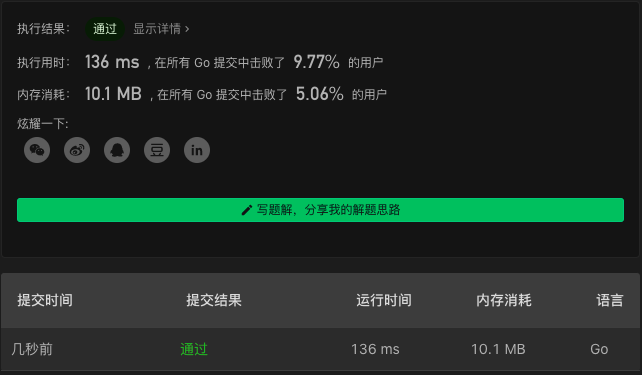
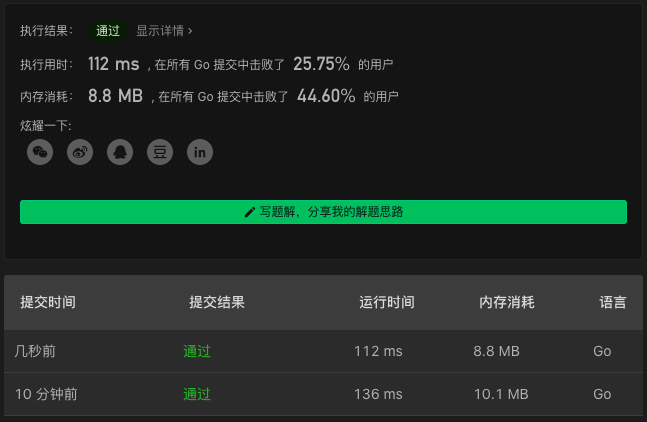
84. Largest Rectangle in Histogram

diff --git a/84. Largest Rectangle in Histogram.md b/84. Largest Rectangle in Histogram.md
@@ -2,37 +2,32 @@
 
 链接：https://leetcode-cn.com/problems/largest-rectangle-in-histogram/
 
-## map 解法
+## 两边扩散解法
 
-1. 拿到所有高度的下标
-2. 按照高度去遍历下标，向左向右取到最大范围并计算面积
+1. 遍历时判断是否已经遍历过了
+2. 向左向右取到最大范围并计算面积
 
 ```go
 func largestRectangleArea(heights []int) int {
     largest := 0
 
-    heightIndices := map[int][]int{}
+    scanned := make([]bool, len(heights))
     for i, h := range heights {
-        if h != 0 {
-            heightIndices[h] = append(heightIndices[h], i)
+        if scanned[i] { continue }
+        scanned[i] = true
+
+        offset := i-1
+        for ; offset>=0 && heights[offset]>=h; offset-- {}
+        offset++
+
+        uplimit := i+1
+        for ; uplimit < len(heights); uplimit++ {
+            hei := heights[uplimit]
+            if hei == h { scanned[uplimit] = true }
+            if hei < h { break }
         }
-    }
 
-    for h, indices := range heightIndices {
-        for len(indices) != 0 {
-            offset := indices[0]
-            for ; offset>=0 && heights[offset]>=h; offset-- {}
-            offset++
-            uplimit := indices[0]
-            for ; uplimit<len(heights) && heights[uplimit]>=h; uplimit++ {}
-
-            largest = max(largest, h*(uplimit-offset))
-
-            // reduce scannings of same height
-            count := 1
-            for ; count<len(indices) && indices[count]<uplimit; count++ {}
-            indices = indices[count:]
-        }
+        largest = max(largest, h*(uplimit-offset))
     }
 
     return largest
